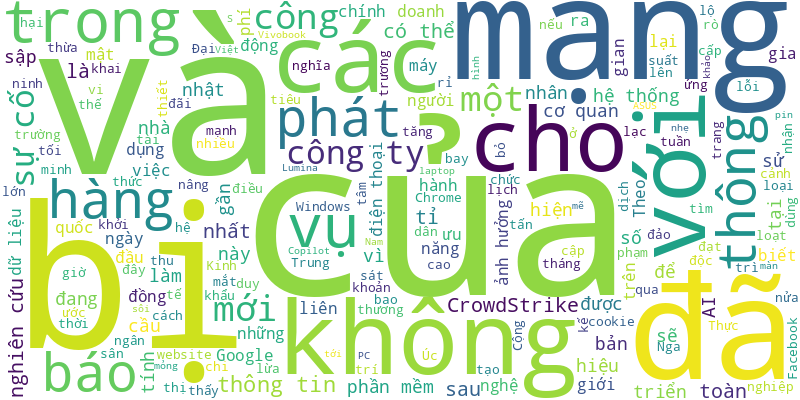
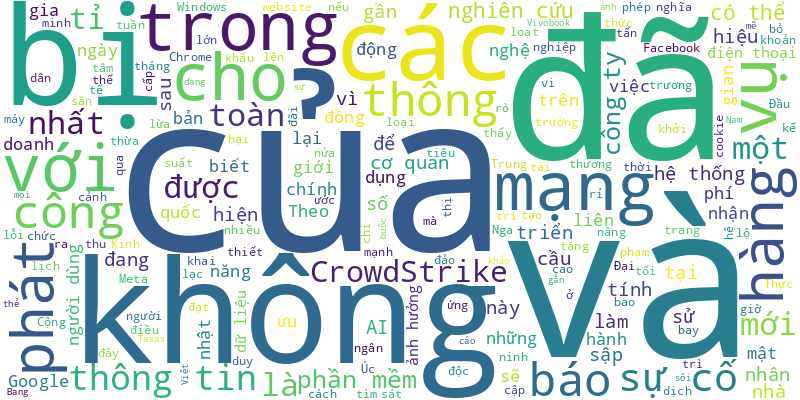
🍀 = 40%

diff --git a/README.md b/README.md
@@ -1,6 +1,16 @@
 # Tuoi Tre RSS 
 
 ## Giáo dục 
+- UBND tỉnh Thái Bình đã ban hành quyết định về việc tạm đình chỉ công tác đối với ông Nguyễn Viết Hiển, giám đốc Sở Giáo dục và Đào tạo tỉnh, kể từ ngày 31-7.
+- Hội đồng nhân dân TP.HCM ra văn bản kiến nghị xem xét các vướng mắc trong việc hoạt động căng tin, bếp ăn, bãi giữ xe của các trường học tại TP.HCM.
+- UBND TP Hải Phòng đã biểu dương, khen thưởng các cá nhân góp phần vào thành tích đoạt giải Olympic khu vực và quốc tế năm học 2023-2024.
+- Lãnh đạo một trường THPT ở Thái Bình cho biết việc chấm bài thi tự luận kỳ thi tuyển sinh vào lớp 10 ở tỉnh này được thực hiện theo hai vòng độc lập, thực hiện theo đúng quy định, hướng dẫn của Bộ Giáo dục và Đào tạo.
+- Với 16/17 học sinh dự thi đoạt giải cá nhân và 5 giải đồng đội, đoàn học sinh tham dự cuộc thi Olympic Toán học trẻ quốc tế đã mang về nhiều huy chương cho Việt Nam.
+- 120 sinh viên, học sinh cả nước đã tham dự "Hội nghị mô phỏng Liên Hiệp Quốc Trường trung học phổ thông chuyên Lê Quý Đôn - Bình Định mở rộng năm 2024" (LQDOMUN 2024) tại Trung tâm ICISE, TP Quy Nhơn.
+- Được điểm cao trong các kỳ thi chứng chỉ uy tín, học sinh Royal School được hưởng ‘đặc quyền’ miễn thi môn tiếng Anh và được quy đổi sang điểm 10 trong kỳ thi tốt nghiệp THPT.
+- Do số lượng thí sinh đăng ký nguyện vọng xét tuyển vào trường tăng, một số trường đại học dự báo điểm chuẩn cũng sẽ tăng so với năm trước.
+- Liên quan vụ điểm thi vào lớp 10 của nhiều thí sinh chênh lệch lớn sau phúc khảo, chánh Thanh tra tỉnh Thái Bình đã có quyết định lập đoàn thanh tra gồm 11 người.
+- Từ ngày 31-7 đến 17h ngày 6-8, các thí sinh đã đăng ký nguyện vọng xét tuyển đại học trên hệ thống chung sẽ bắt đầu nộp lệ phí xét tuyển.
 - Những mảng tường rêu phong, cũ kỹ ở TP Tuy Hòa (tỉnh Phú Yên) đã được các sinh viên Trường đại học Kiến trúc TP.HCM 'khoác áo mới' thành những bức tranh cảnh quan du lịch đầy màu sắc, đẹp mắt.
 - Nhiều bạn đọc quan tâm đến học bổng toàn phần Trường Quản trị và Kinh doanh cấp cho sinh viên là con, cháu của thương binh, liệt sĩ.
 - Tính đến thời điểm khóa cổng đăng ký xét tuyển trực tuyến, có hơn 733.000 thí sinh đã nhập nguyện vọng đăng ký xét tuyển, tương đương 68,5% so với số thí sinh đăng ký dự thi tốt nghiệp THPT năm 2024.
@@ -21,50 +31,41 @@
 - Từ hàng trăm sinh viên đăng ký, cuộc thi sẽ tìm ra 10 thí sinh bước vào vòng chung kết để giành lấy những giải thưởng hấp dẫn.
 - Ý tưởng khởi nghiệp sản xuất và phân phối các sản phẩm gắn với giá trị truyền thống như tre, nước mắm và cả bẹ chuối gây ấn tượng mạnh.
 - Những video trên mạng tư vấn 'học đại học mất thời gian' hay 'bằng đại học là vô dụng' để lại hệ lụy đáng lo ngại cho giới trẻ.
-- Clip học sinh lớp 12A Trường THPT Ninh Thạnh Lợi (huyện Hồng Dân, tỉnh Bạc Liêu) thể hiện ước mơ của mình được chia sẻ nhiều trên mạng xã hội.
-- Bộ Giáo dục và Đào tạo chia thí sinh 63 địa phương thành 6 nhóm nộp lệ phí xét tuyển. Mỗi nhóm nộp lệ phí trong 1 ngày.
-- Dù chưa kết thúc xét tuyển, nhiều trường đại học đã mời thí sinh đóng tiền giữ chỗ học bổng, đến trường xác nhận nhập học...
-- Môi trường giáo dục quốc tế tuân theo các tiêu chuẩn quốc tế về chất lượng, chương trình đào tạo, phương pháp giảng dạy, đội ngũ giảng viên, cơ sở vật chất, trải nghiệm người học.
-- Với 100% học sinh dự thi đoạt huy chương, đoàn Việt Nam nằm trong nhóm các nước có kết quả cao nhất tại kỳ thi Olympic vật lý quốc tế 2024.
-- Bộ Giáo dục và Đào tạo vừa có thông báo giao chỉ tiêu thêm 6 ngành sư phạm, tăng chỉ tiêu 9 ngành sư phạm khác cho Trường đại học Sài Gòn.
-- Theo dự báo của các chuyên gia, điểm chuẩn đại học phương thức xét điểm thi tốt nghiệp THPT năm 2024 sẽ tăng nhẹ hoặc giữ nguyên so với năm ngoái.
-- Cụm từ tiếng Anh "technology vehicles" sân bay Tân Sơn Nhất dịch là "xe công nghệ" gây khó hiểu. Tại sao?
-- Với những bạn trẻ, đại học không chỉ có giảng đường đào tạo kiến thức hay kỹ năng nghề nghiệp mà phải có một chân trời rực rỡ - nơi có đa dạng hoạt động ngoại khóa hấp dẫn để thả mình và phát triển kỹ năng.
-- Từ năm học 2024 - 2025, trường này sẽ cấp học bổng toàn phần đối với sinh viên là con, cháu (cả cháu nội và cháu ngoại) của thương binh, liệt sĩ các thời kỳ.
 ![Edu](Edu.png)
 ## Thời Sự 
-- Bố con anh Giàng Seo Dơ đang đi xe máy trên đường đi làm về thì bất ngờ bị đá lăn rơi từ ta luy dương xuống đè vào người khiến hai người tử vong tại chỗ.
-- Một số tin tức đáng chú ý: Tỉ lệ hưởng lương hưu mới theo Luật Bảo hiểm xã hội mới; 6 tháng đầu năm, ngộ độc thực phẩm tăng cao; Rà soát quỹ đất tái định cư khi di dời nhà ven kênh rạch; Lãi suất liên ngân hàng tăng mạnh.
-- Hôm nay 31-7, thời tiết Bắc Bộ tiếp tục mưa dông, vùng núi mưa to. Trung Bộ và Nam Bộ ngày nắng, có nơi nắng nóng.
-- Hàng loạt chính sách mới liên quan lĩnh vực bất động sản như Luật Đất đai, Luật Nhà ở, Luật Kinh doanh bất động sản... chính thức có hiệu lực từ 1-8-2024.
-- Sau những ngày động đất liên tiếp, cuộc sống của người dân trong các buôn làng tại Kon Plông, tỉnh Kon Tum đã trở lại nhịp thường ngày, nhưng ai cũng nơm nớp lo...
-- Hiệp hội Bất động sản TP.HCM vừa có công văn gửi UBND TP.HCM đề nghị chưa nên ban hành bảng giá đất điều chỉnh tăng từ 1-8-2024 vì 'chưa cần thiết'.
-- Đại sứ quán Việt Nam tại Ai Cập kiêm nhiệm Lebanon khuyến cáo công dân không đến Lebanon, nếu đang ở đây thì cân nhắc rời đi, khi các chuyến bay thương mại còn hoạt động.
-- Tối 30-7, Thủ tướng Phạm Minh Chính và đoàn đại biểu cấp cao rời sân bay Nội Bài lên đường tới Ấn Độ, bắt đầu chuyến thăm cấp nhà nước.
-- Ngày 30-7, UBND TP Hạ Long, tỉnh Quảng Ninh có thông báo cấm các phương tiện lưu thông trên tuyến đường Đặng Bá Hát - Ba Đèo do nguy cơ tiếp tục xảy ra sạt lở.
-- Công an TP Nha Trang (tỉnh Khánh Hòa) đã tạm giữ hình sự Hồ Liêu Châu, nghi phạm đốt cây xăng.
-- Đổ vốn hàng tỉ USD đầu tư sản xuất thép cán nóng chất lượng cao HRC, doanh nghiệp Việt Nam chưa hết áp lực với hàng nhập khẩu giá rẻ từ Trung Quốc, lại sắp bị Ủy ban châu Âu điều tra kiện chống bán phá giá.
-- Trong tiết trời mát mẻ của thủ đô Hà Nội, Bộ trưởng Ngoại giao Bùi Thanh Sơn và Đại diện cấp cao EU về chính sách đối ngoại và an ninh, Phó chủ tịch EC Josep Borrell đã cùng thăm Bảo tàng Mỹ thuật Việt Nam và thưởng thức cà phê Việt Nam.
-- Các chuyên gia cho rằng cần nghiên cứu sửa đổi về tiêu chuẩn đại biểu Quốc hội, cần thiết có cơ chế giám sát của nhân dân.
-- Những cơn mưa lớn cục bộ từ sáng 30-7 đến chiều khiến nhiều đoạn trên quốc lộ 1 hướng lên cửa khẩu Hữu Nghị, tỉnh Lạng Sơn ngập sâu.
-- Cá chết nổi lềnh bềnh trên mặt hồ Xuân Hương Đà Lạt, công nhân phải gom xác cá mang đi tiêu hủy.
-- Động đất ở Kon Tum khiến Quảng Ngãi rung chấn liên tục, UBND tỉnh hỏa tốc yêu cầu chủ động ứng phó với động đất, bảo vệ tính mạng, tài sản của người dân.
-- Cơ quan chức năng xác định có 3/4 tàu cá đang neo đậu ở cảng Ninh Chữ bị cháy vào trưa nay 30-7 gây hư hỏng nặng, ước thiệt hại ban đầu khoảng 1,3 tỉ đồng.
-- Dự báo mưa lớn ở miền Bắc kéo dài từ nay tới 2-8, tức kéo dài thêm 2 ngày so với dự báo trước đó. Tinh hình này tăng nguy cơ xảy ra lũ quét, sạt lở đất và ngập lụt ở các tỉnh, thành Bắc Bộ.
-- Nam thanh niên chạy xe máy tới cây xăng Mã Vòng ở TP Nha Trang (tỉnh Khánh Hòa), rồi bất ngờ đổ xăng ra nền đất, châm lửa đốt.
-- Thu nhập bình quân của người lao động là 7,5 triệu đồng/tháng, tăng 7,4%, tương ứng tăng 519.000 đồng so với cùng kỳ năm trước.
-- UBND huyện Tuy Đức (tỉnh Đắk Nông) đã tiến hành 3 đợt cưỡng chế để thu hồi 22/35ha đất cụm công nghiệp bị biến thành khu dân cư.
-- Thượng tướng Lương Tam Quang đã bàn giao, bổ nhiệm chức danh thủ trưởng Cơ quan an ninh điều tra Bộ Công an đối với Trung tướng Phạm Thế Tùng, thứ trưởng Bộ Công an.
-- Dự thảo nghị định đề xuất thu phí đường cao tốc do Nhà nước đầu tư với mức thấp nhất từ 900 đồng/km, cao nhất 5.200 đồng/km theo từng nhóm xe.
-- Lãnh đạo cấp cao EU Josep Borrell mong muốn chuyến thăm Việt Nam lần này của ông sẽ khởi động quá trình nâng cấp quan hệ Việt Nam - EU lên Đối tác chiến lược toàn diện trong thời gian tới.
-- 4 tàu cá của ngư dân huyện Ninh Hải và huyện Thuận Nam (tỉnh Ninh Thuận) đang neo đậu tại cảng cá Ninh Chữ (thuộc xã Tri Hải, huyện Ninh Hải) bất ngờ bốc cháy, thiệt hại nặng.
-- Bác sĩ nội trú Hoàng Minh Lý - nữ bác sĩ gặp tai nạn hy hữu tại quán cà phê - đã hồi phục sức khỏe sau thời gian điều trị, phục hồi chức năng.
-- Tỉnh Tây Ninh đã và đang hướng tới ứng dụng cơ giới hóa trong trồng trọt. Đơn cử hiện nay, cây lúa có tỉ lệ cơ giới hóa cao nhất (100% ở việc làm đất, 65-80% khâu chăm sóc, 95-100% khâu thu hoạch vận chuyển).
-- Bộ Quốc phòng nêu rõ nếu tăng số lượng gọi nhập ngũ, giảm thời hạn phục vụ tại ngũ thì hằng năm phải gọi công dân nhập ngũ, giải quyết xuất ngũ hai đợt.
-- Hôm nay 30-7, Hiệp hội An ninh mạng quốc gia chính thức ra mắt phần mềm phòng chống lừa đảo nTrust.
-- Trạm ép rác tại phường Thạnh Xuân, quận 12 là trạm hiện đại nhất TP.HCM.
+- Bộ Công an đang lấy ý kiến về dự thảo thông tư mới quy định về chỉ huy, điều khiển giao thông đường bộ của cảnh sát giao thông.
+- Lực lượng ở tỉnh Lâm Đồng cứu hộ thành công nam thanh niên đi xe máy tông hộ lan đèo Prenn Đà Lạt và rơi xuống phía vực.
+- Một số tin tức đáng chú ý: Bán ế hàng chục lần, ngân hàng đại hạ giá khoản nợ trăm tỉ còn vài chục tỉ; Mặt bằng giá rao bán bất động sản Đà Nẵng xác lập mốc mới; Hơn 97% người dân ở Hà Nội đã nhận lương hưu, trợ cấp qua tài khoản...
+- Dự báo hôm nay 1-8, thời tiết Bắc Bộ vẫn mưa to đến rất to, tình hình mưa lũ còn phức tạp. Nam Bộ ngày nắng, chiều tối mưa rào.
+- Gần một tháng sau khi các ngân hàng áp dụng xác thực sinh trắc học, tội phạm mạng tiếp tục tung ra nhiều chiêu để lừa người dùng.
+- Tối 31-7, Tổng thống Timor-Leste José Ramos-Horta đã đến Hà Nội, bắt đầu chuyến thăm cấp nhà nước Việt Nam bốn ngày theo lời mời của Chủ tịch nước Tô Lâm.
+- Sau khi cắn một người ở xã Hiền Ninh, huyện Sóc Sơn (Hà Nội), con chó dại to cỡ 15kg sang xã khác cùng huyện, cắn thêm 2 người và tấn công nhiều chó, mèo.
+- Chủ tịch Quốc hội Trần Thanh Mẫn đề nghị trên cơ sở quy chế, quy định về chức năng, nhiệm vụ được giao, các cơ quan thực hiện 'đúng vai, thuộc bài'.
+- Bản Phiêng Nghè, thành phố Sơn La (tỉnh Sơn La) nước ngập thành hồ. Hơn 40 hộ dân bị ngập thấp thỏm chưa biết khi nào nước rút.
+- Dự thảo bảng giá đất mới ở TP.HCM dự kiến sẽ ban hành để áp dụng từ 1-8-2024, tuy nhiên đến cuối ngày 31-7, dự thảo này còn đang ở bước lấy ý kiến.
+- Nhiều doanh nghiệp ở Quảng Ngãi sau khi đấu giá mỏ cát và trúng đấu giá từ năm 2023, nay xin trả mỏ, hủy kết quả trúng đấu giá.
+- Theo Phó cục trưởng Cục C06 - Bộ Công an Vũ Văn Tấn, từng cán bộ ngành bảo hiểm xã hội phải nâng cao nhận thức, tránh sơ suất, tránh bị hacker tấn công.
+- UBND TP Hải Phòng đã biểu dương, khen thưởng các cá nhân góp phần vào thành tích đoạt giải Olympic khu vực và quốc tế năm học 2023-2024.
+- Dữ liệu hệ thống giám sát hành trình trễ từ 2-3 tháng, hàng nghìn xe vi phạm nhưng phải nhập thủ công từng xe lên hệ thống... là những khó khăn trong việc tước phù hiệu xe quá tốc độ ở TP.HCM.
+- 8 nhân viên một ngân hàng ở TP Biên Hòa, Đồng Nai bị chóng mặt, đau đầu, khó thở nghi do ngộ độc khí CO.
+- Tòa tuyên án phạt các bị cáo là cựu chủ tịch quận, phó chủ tịch, trưởng phòng quản lý đô thị, phó trưởng phòng, cùng phạm tội nhận hối lộ.
+- Logistics, kho bãi... là lĩnh vực rất quan trọng trong việc thúc đẩy liên kết vùng, tăng giá trị xuất khẩu hàng hóa. Do đó Bộ Công Thương sẽ có thêm những hỗ trợ, giải pháp nhằm thúc đẩy vùng Đông Nam Bộ phát triển lĩnh vực này.
+- Ngập lụt kéo dài đã ảnh hưởng cuộc sống của hàng ngàn người dân tại huyện Chương Mỹ (Hà Nội) những ngày qua.
+- Mẹ bé gái gần 14 tuổi này đã đưa con từ dưới quê lên TP.HCM, cho bé quan hệ tình dục với một người lớn để lấy tiền.
+- Thời gian qua, nhiều trạm xe buýt ở TP.HCM bị chiếm dụng làm nơi buôn bán, tập kết rác khiến người dân rất khó chịu.
+- Bộ trưởng Bộ Công an vừa điều động, bổ nhiệm thượng tá Nguyễn Quang Huyên làm phó giám đốc Công an tỉnh Lạng Sơn.
+- Kiến trúc của Bảo tàng Trường Sa sắp được xây dựng tại huyện Cam Lâm (Khánh Hòa) có ba nhánh vươn mình ra Biển Đông.
+- Sau hơn 2 năm, dự án mở rộng quốc lộ 13 Bình Dương nối TP.HCM đã xây dựng, trải thảm nhựa một số đoạn nhưng vẫn còn vướng trụ điện.
+- Thủ tướng Phạm Minh Chính đã nhắc đến phát biểu Việt Nam là trụ cột trong chính sách Hành động hướng Đông của Thủ tướng Ấn Độ Narendra Modi để nhấn mạnh những tin tưởng, cơ hội hợp tác của hai nước.
+- Trả lời Tuổi Trẻ Online, Phó chủ tịch Ủy ban châu Âu Josep Borrell kỳ vọng sẽ nhận được báo cáo từ các cơ quan liên quan của Việt Nam về thẻ vàng IUU vào tháng 9, và hy vọng thẻ vàng có thể được gỡ bỏ.
+- Ông Vương Quốc Tuấn - phó chủ tịch thường trực UBND tỉnh Bắc Ninh - được bầu làm chủ tịch UBND tỉnh Bắc Ninh.
+- Ông Tỉa bị cách chức do liên quan đến những vi phạm, khuyết điểm trong công tác. Trong đó có việc quản lý tiền cho thuê đất công trong thời gian ông làm chủ tịch UBND xã Tân Thuận.
+- Ngày 31-7, Cơ quan cảnh sát điều tra Công an tỉnh Tây Ninh cho hay vừa bắt Phạm Văn Học (41 tuổi) về tội lừa đảo chiếm đoạt tài sản bằng thủ đoạn lừa làm giả giấy tờ đất.
+- Thấy một con rùa được bán công khai, muốn dừng lại mua để thả về tự nhiên nhưng sợ dính tội mua bán động vật hoang dã.
+- Trong 7 tháng năm 2024, các chỉ số liên quan tai nạn trên đường cao tốc chiếm tỉ lệ dưới 1%, song phần lớn lại gây hậu quả rất nghiêm trọng và đặc biệt nghiêm trọng, theo Bộ Công an.
 ![New](News.png)
 ## Nhịp sống số 
+- Bang Texas cáo buộc các phần mềm của Meta đã nhận dạng và gắn thẻ mọi người trong ảnh mà không được sự cho phép của người dùng.
 - Theo khảo sát của các công ty nghiên cứu thị trường, thị trường nhà thông minh tại Việt Nam đang phát triển mạnh mẽ và sôi động.
 - Vivobook S 15 (5507) là thế hệ laptop AI Copilot+ PC của ASUS với thiết kế mỏng nhẹ, pin lên tới 18 giờ, màn hình Lumina OLED và hiệu năng mạnh.
 - 'Chatbot AI gặp khó với toán vì chúng chưa bao giờ được thiết kế để làm toán', ông Kristian Hammond, nhà nghiên cứu AI tại Đại học Northwestern (Mỹ), cho biết.
@@ -94,5 +95,4 @@
 - Mới đây, F.Studio by FPT đã chính thức mở bán các sản phẩm Apple trên gian hàng TikTok Shop của hệ thống.
 - Vừa qua, Motorola Solutions đã khai trương trung tâm R&amp;D tại TP.HCM, với mục tiêu thúc đẩy nghiên cứu và phát triển phần mềm, phân tích dữ liệu và công nghệ trí tuệ nhân tạo (AI).
 - Họp trực tuyến ngày càng phổ biến vì đáp ứng nhu cầu công việc tức thời, tối ưu thời gian và chi phí.
-- Công ty Ricoh Imaging của Nhật Bản thông báo sẽ cho ra mắt một máy ảnh phim Pentax mới lần đầu tiên sau hai thập kỷ
 ![life](Life.png)
